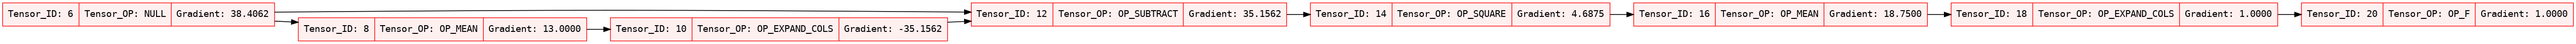
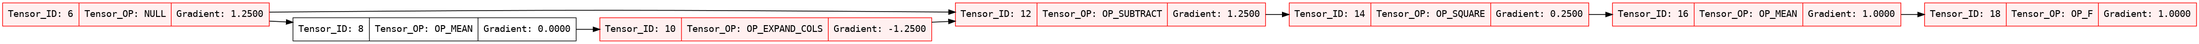
tracing bug with backpropagation

diff --git a/tensor.c b/tensor.c
@@ -2014,12 +2014,17 @@ void tensor_expand_cols_backward(Arena *A, Tensor *o) {
     int o_cols = o->shape[1];
 		int p_cols = p->shape[1];
 
+		printf("o shape: \n");
+		tensor_shape_2d(o);
+		printf("o->grad shape: \n");
+		tensor_shape_2d(o->grad);
+
+
+
     for (int r = 0; r < o_rows; r++) {
-
         float sum = 0.0f;
-
         for (int c = 0; c < o_cols; c++) {
-					sum += o->data[r * o_cols + c];
+					sum += o->grad->data[r * o_cols + c];
         }
 				p->grad->data[r] += sum;
     }
@@ -2668,14 +2673,14 @@ int main() {
 	Tensor *diff = tensor_subtract(A, x, mean_exp);
 	Tensor *sq = tensor_square(A, diff);
 	Tensor *var = tensor_mean(A, sq);
-	Tensor *var_exp = tensor_expand_cols(A, var, x->shape[1]);
+	//Tensor *var_exp = tensor_expand_cols(A, var, x->shape[1]);
 	//Tensor *eps = tensor_fill_like(A, var_exp, 1e-3);
 
 	//Tensor *var_eps = tensor_add(A, var_exp, eps);
 	//Tensor *std = tensor_sqrt(A, var_eps);
 	//Tensor *out = tensor_div(A, var_eps, std);
 
-	Tensor *loss = tensor_f(A, var_exp); // (1,1)
+	Tensor *loss = tensor_f(A, var); // (1,1)
 	
 	loss->grad->data[0] = 1.0f;
 
